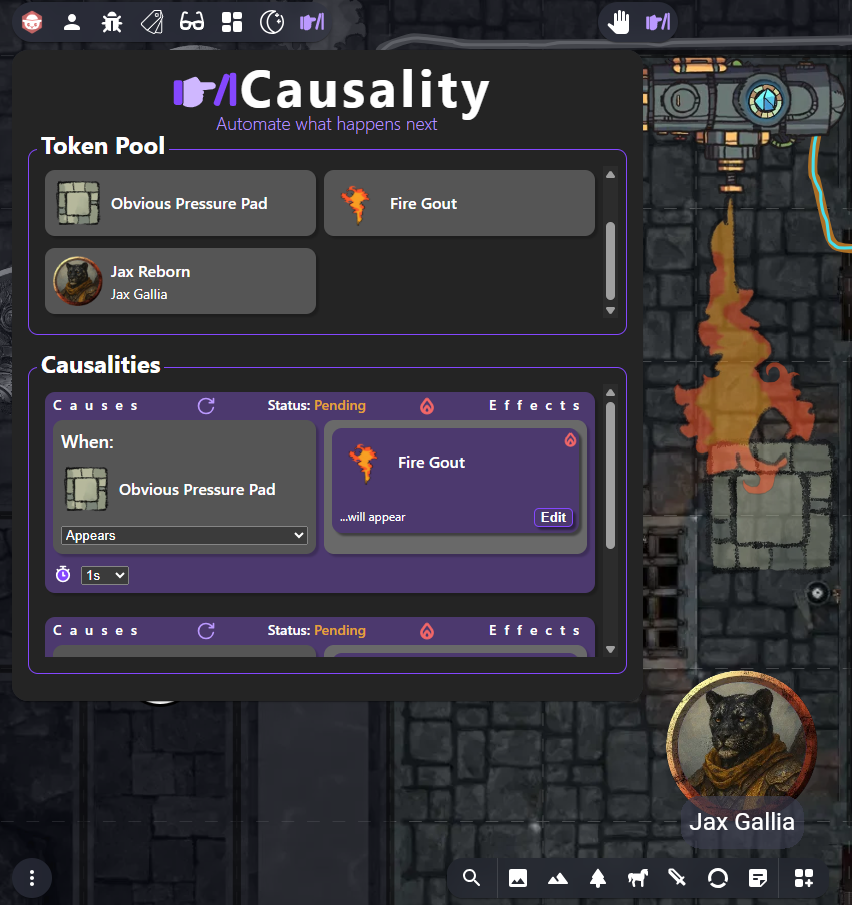
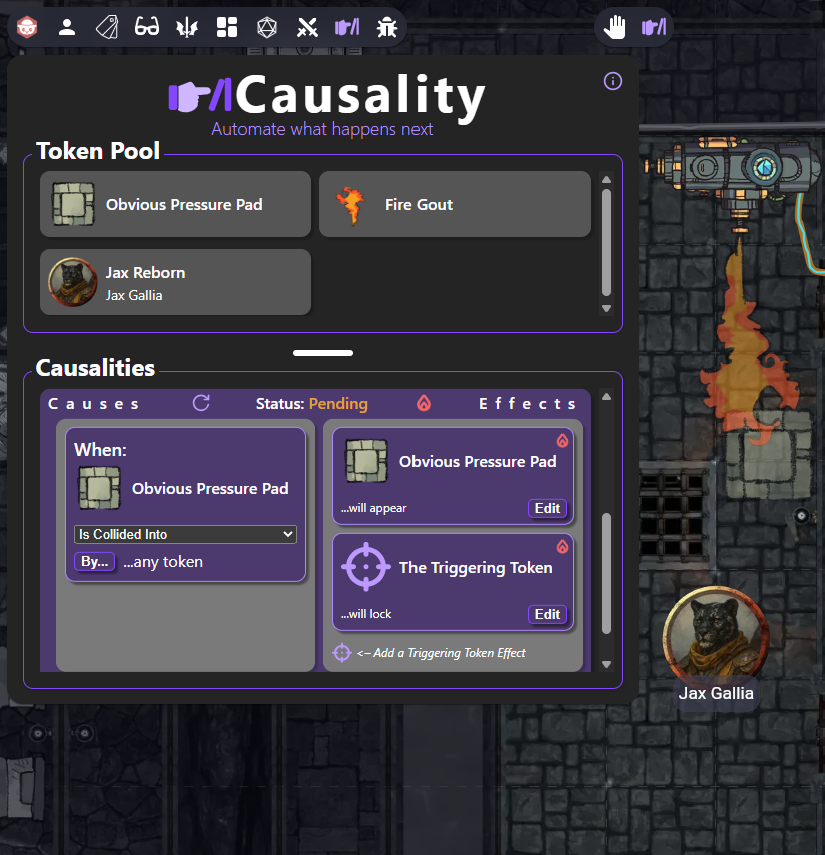
update docs with new features

diff --git a/docs/store.md b/docs/store.md
@@ -14,9 +14,16 @@ learn-more: https://github.com/RobertTate/causality
 
 ### An an [Owlbear Rodeo](https://www.owlbear.rodeo/) extension for automating what happens next.
 
-Causality allows the GM of a room to orchestrate **cause** and **effect** relationships between tokens interacting on the map.
+**Causality** lets Game Masters link **causes** and **effects** between tokens — so hidden traps spring, doors open, or any other domino effect happens automatically.
 
 <img src="https://raw.githubusercontent.com/RobertTate/causality/main/docs/ShortCausalityDemo.gif" alt="Short Causality Demo" width="722">
+
+## Features
+
+- ⚡ Drag-and-drop interface for defining *Cause ➜ Effect* chains  
+- 🖇 Combine multiple causes with `AND` / `OR` logic  
+- 🔄 Chain causalities together for Rube-Goldberg moments  
+- 🖱 Dedicated **Causality Move Tool** so collisions can fire while you drag 
 
 ## How to use:
 
@@ -28,19 +35,21 @@ Causality allows the GM of a room to orchestrate **cause** and **effect** relati
 
 ### Step 2:
 
-**Set a token as a "Cause"**
+**Set one or more tokens as a "Cause"**
+
+A **causality** can have more than one cause. All or some (depending on whether they have AND or OR relationships) **cause** conditions must be met before a **causality** triggers.
 
 <img src="https://raw.githubusercontent.com/RobertTate/causality/main/docs/Step2AddCause.gif" alt="Short Causality Demo" width="722">
 
 ### Step 3:
 
-**Pair one or more tokens as an "Effect" to that "Cause"**
+**Pair one or more tokens as an "Effect" to the "Cause(s)"**
 
 <img src="https://raw.githubusercontent.com/RobertTate/causality/main/docs/Step3AddEffects.gif" alt="Short Causality Demo" width="722">
 
-### Step 4:
+### Step 4 (optional):
 
-**Trigger the "Causality" - or chain more together!**
+**Chain more Causalities together!**
 
 <img src="https://raw.githubusercontent.com/RobertTate/causality/main/docs/Step4TriggerOrChain.gif" alt="Short Causality Demo" width="722">
 
@@ -50,15 +59,38 @@ Causality allows the GM of a room to orchestrate **cause** and **effect** relati
 
 <img src="https://raw.githubusercontent.com/RobertTate/causality/main/docs/Step5Trigger.gif" alt="Short Causality Demo" width="722">
 
+<hr />
+
 **IMPORTANT**: If you want a collision to trigger **while** you're moving a token, you must be using the **Causality Move Tool**.
 
 <img src="https://raw.githubusercontent.com/RobertTate/causality/main/docs/CausalityMoveTool.png" alt="Short Causality Demo" width="175">
 
-<br />
+## Collision modes explained
+
+- There are both **"Is Collided Into"** and **"Is Covered"** **cause** conditions. When only using one **cause** in a **causality**, they appear to behave the same. However, if you are using multiple **causes** - the difference becomes more clear:
+
+### "Is Collided Into"
+- If you have two **causes** in a **causality** with an **AND** relationship and they are both using this trigger type, a token can bump into one, move away from it, then bump into the other, and the causality will trigger.
+
+*Example: An adventurer finds and pulls levers as they traverse a dungeon. As they reach and pull the final lever, a hidden passage is revealed.*
+
+### "Is Covered"
+- If you have two Causes in a causality with an AND relationship and they are both using this trigger type, a token must stay over each before the causality triggers.
+
+*Example: Two adventurers must each stay standing on a pressure plate, before a hidden passage is finally revealed.*
+
+## FAQ
+
+**Collisions don’t fire while I drag a token**  
+Make sure you’ve selected the **Causality Move Tool** (you can hit C on your keyboard as a shortcut to get to it). Collisions only update during movement when this tool is in use.
+
+**My token still isn't triggering a collision**  
+Even if that token isn't connected to a cause or effect, it must still first be added to Causality before it can be used to trigger collisions.
+
 <br />
 
 > ⚡⚡⚡⚡
 >
-> Thanks for checking out **Causality**! I literally just made this because I wanted a way for hidden traps to appear automatically if one of my players moved their token into it. Now we have this. 🙃
+> Thanks for checking out **Causality**! I made this because I wanted a way for hidden traps to appear automatically if one of my players moved their token into it. And then down the rabbit hole I went. Now we have this. 🙃
 >
 > ⚡⚡⚡⚡

diff --git a/README.md b/README.md
@@ -2,9 +2,16 @@
 
 ### An an [Owlbear Rodeo](https://www.owlbear.rodeo/) extension for automating what happens next.
 
-Causality allows the GM of a room to orchestrate **cause** and **effect** relationships between tokens interacting on the map.
+**Causality** lets Game Masters link **causes** and **effects** between tokens — so hidden traps spring, doors open, or any other domino effect happens automatically.
 
 <img src="./docs/ShortCausalityDemo.gif" alt="Short Causality Demo" width="722">
+
+## Features
+
+- ⚡ Drag-and-drop interface for defining *Cause ➜ Effect* chains  
+- 🖇 Combine multiple causes with `AND` / `OR` logic  
+- 🔄 Chain causalities together for Rube-Goldberg moments  
+- 🖱 Dedicated **Causality Move Tool** so collisions can fire while you drag 
 
 ## How to use:
 
@@ -16,37 +23,62 @@ Causality allows the GM of a room to orchestrate **cause** and **effect** relati
 
 ### Step 2:
 
-**Set a token as a "Cause"**
+**Set one or more tokens as a "Cause"**
+
+A **causality** can have more than one cause. All or some (depending on whether they have AND or OR relationships) **cause** conditions must be met before a **causality** triggers.
 
 <img src="./docs/Step2AddCause.gif" alt="Short Causality Demo" width="722">
 
 ### Step 3:
 
-**Pair one or more tokens as an "Effect" to that "Cause"**
+**Pair one or more tokens as an "Effect" to the "Cause(s)"**
 
 <img src="./docs/Step3AddEffects.gif" alt="Short Causality Demo" width="722">
 
-### Step 4:
+### Step 4 (optional):
 
-**Trigger the "Causality" - or chain more together!**
+**Chain more Causalities together!**
 
 <img src="./docs/Step4TriggerOrChain.gif" alt="Short Causality Demo" width="722">
 
 ### Step 5:
 
-**Trigger the causality (or causalities). Reset them to start over.**
+**Trigger a causality (or causalities). Reset them to start over.**
 
 <img src="./docs/Step5Trigger.gif" alt="Short Causality Demo" width="722">
+
+<hr />
 
 **IMPORTANT**: If you want a collision to trigger **while** you're moving a token, you must be using the **Causality Move Tool**.
 
 <img src="./docs/CausalityMoveTool.png" alt="Short Causality Demo" width="175">
 
-<br />
+## Collision modes explained
+
+- There are both **"Is Collided Into"** and **"Is Covered"** **cause** conditions. When only using one **cause** in a **causality**, they appear to behave the same. However, if you are using multiple **causes** - the difference becomes more clear:
+
+### "Is Collided Into"
+- If you have two **causes** in a **causality** with an **AND** relationship and they are both using this trigger type, a token can bump into one, move away from it, then bump into the other, and the causality will trigger.
+
+*Example: An adventurer finds and pulls levers as they traverse a dungeon. As they reach and pull the final lever, a hidden passage is revealed.*
+
+### "Is Covered"
+- If you have two Causes in a causality with an AND relationship and they are both using this trigger type, a token must stay over each before the causality triggers.
+
+*Example: Two adventurers must each stay standing on a pressure plate, before a hidden passage is finally revealed.*
+
+## FAQ
+
+**Collisions don’t fire while I drag a token**  
+Make sure you’ve selected the **Causality Move Tool** (you can hit C on your keyboard as a shortcut to get to it). Collisions only update during movement when this tool is in use.
+
+**My token still isn't triggering a collision**  
+Even if that token isn't connected to a cause or effect, it must still first be added to Causality before it can be used to trigger collisions.
+
 <br />
 
 > ⚡⚡⚡⚡
 >
-> Thanks for checking out **Causality**! I literally just made this because I wanted a way for hidden traps to appear automatically if one of my players moved their token into it. Now we have this. 🙃
+> Thanks for checking out **Causality**! I made this because I wanted a way for hidden traps to appear automatically if one of my players moved their token into it. And then down the rabbit hole I went. Now we have this. 🙃
 >
 > ⚡⚡⚡⚡
